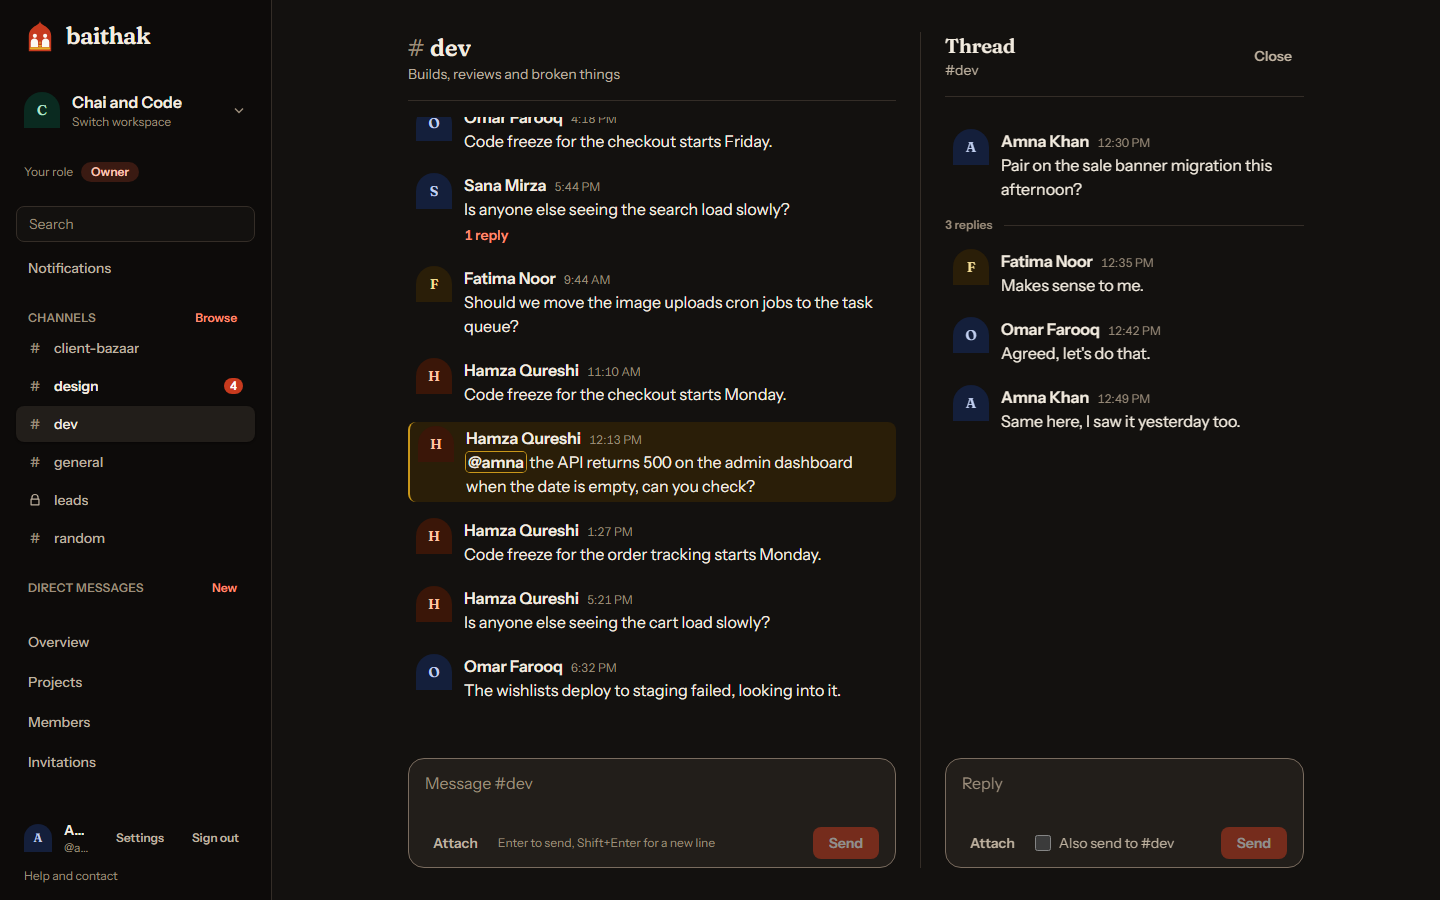
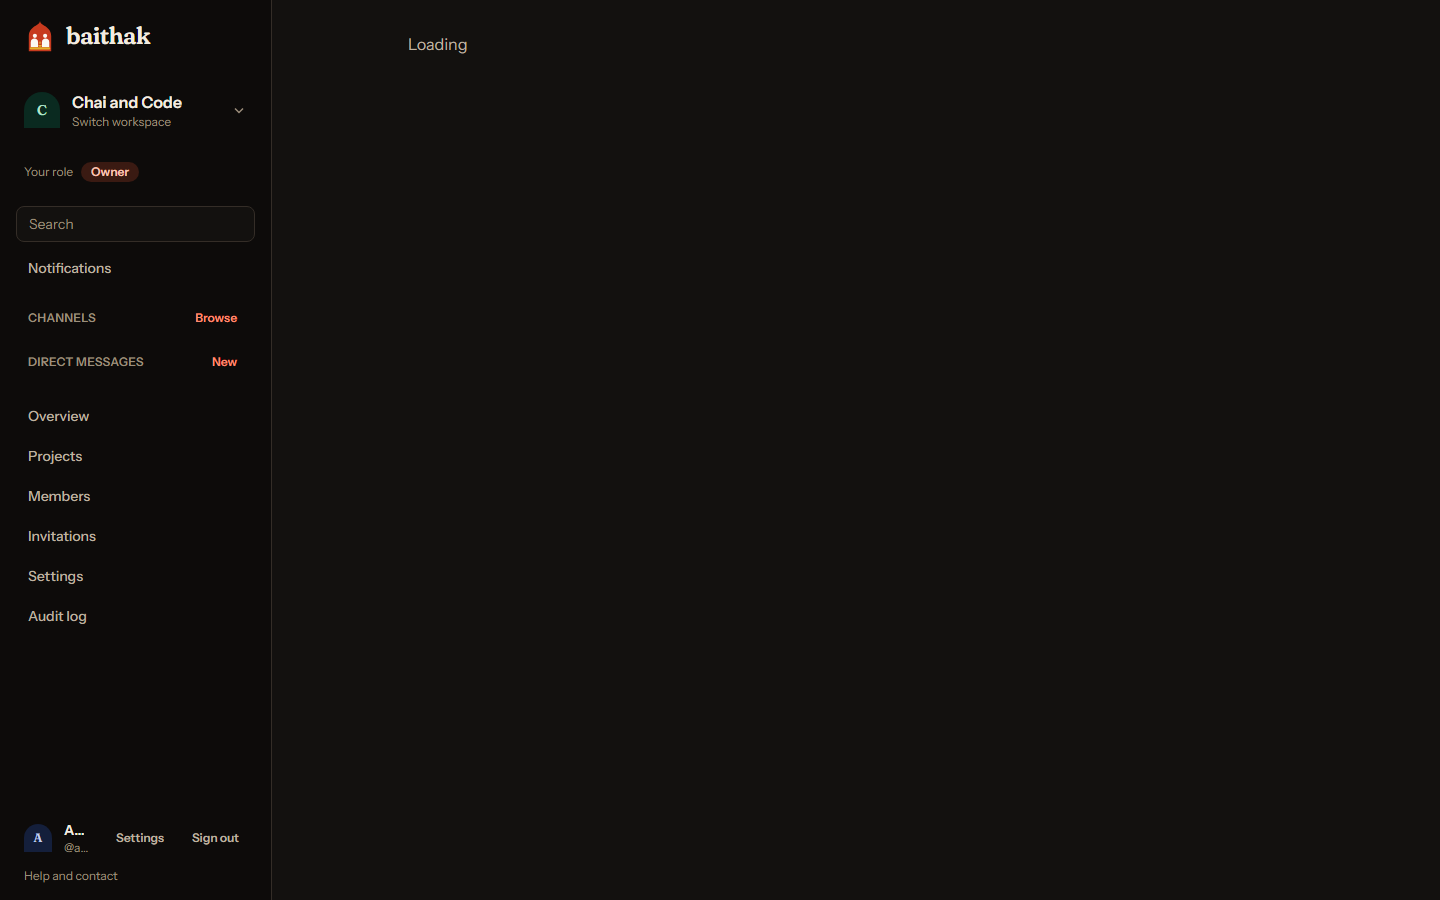
Pipe the screenshot session in instead of running docker from Node

diff --git a/frontend/scripts/screenshot-session.py b/frontend/scripts/screenshot-session.py
@@ -1,0 +1,39 @@
+# Run by `npm run screenshots` inside the backend container (manage.py shell reads it from
+# stdin). Prints, as one line of JSON, a session for the demo owner and where the pictures are.
+import json
+from importlib import import_module
+
+from django.conf import settings
+from django.contrib.auth import BACKEND_SESSION_KEY, HASH_SESSION_KEY, SESSION_KEY
+
+from apps.accounts.models import User
+from apps.chat.models import Channel, Message
+from apps.issues.models import Issue
+
+user = User.objects.get(email="amna@chai-and-code.example")
+session = import_module(settings.SESSION_ENGINE).SessionStore()
+session[SESSION_KEY] = str(user.pk)
+session[BACKEND_SESSION_KEY] = settings.AUTHENTICATION_BACKENDS[0]
+session[HASH_SESSION_KEY] = user.get_session_auth_hash()
+session.create()
+dev = Channel.objects.get(workspace__slug="chai-and-code", name="dev")
+thread = (
+    Message.objects.filter(channel=dev, parent=None, reply_count__gte=2, kind="message")
+    .order_by("-seq")
+    .first()
+)
+issue = (
+    Issue.objects.filter(workspace__slug="chai-and-code", message__isnull=False)
+    .order_by("-number")
+    .first()
+)
+print(
+    json.dumps(
+        {
+            "cookie": settings.SESSION_COOKIE_NAME,
+            "session": session.session_key,
+            "channel": f"/w/chai-and-code/c/{dev.pk}?thread={thread.seq}",
+            "issue": f"/w/chai-and-code/projects/{issue.project.key}/issues/{issue.number}",
+        }
+    )
+)
